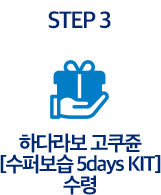
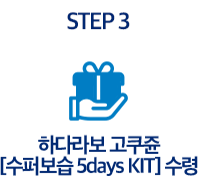
로고, 인풋초기화, 홈링크 수정완료

Changed region(s): [[0.0, 0.2841, 1.0, 1.0], [0.2795, 0.0568, 0.7143, 0.1705]]

diff --git a/m/css/ui.css b/m/css/ui.css
@@ -40,6 +40,33 @@ img {
   min-width: 320px;
   overflow: hidden;
 }
+.wrap .logo-area {
+	position: absolute;
+	top: 0;
+	left: 0;
+	right: 0;
+}
+.wrap .logo-area .logo-wrap {
+/*	margin: 20px auto;*/
+	position: relative;
+	z-index: 10;
+	font-size: 0;
+	text-align: right;
+	padding: 20px 30px;
+}
+.wrap.sub-p .logo-area .logo-wrap {
+	padding: 10px 0;
+	text-align: center;
+}
+.wrap.sub-p .logo-area .logo-wrap a {
+	margin-left: 253px;
+}
+.wrap .logo-area .logo-wrap a {
+	display: inline-block;
+}
+.wrap .logo-area .logo-wrap a img {
+	width: 44px;
+}
 .main-section,
 .event-section {
   min-width: 320px;
@@ -718,6 +745,9 @@ img {
   height: 100px;
   margin: 0 auto;
 }
+.main-section--02 .step li:last-child img {
+	height: 87px;
+}
 .main-section--02 .product {
   margin: 15px auto 28px;
   width: 305px;
@@ -849,6 +879,7 @@ img {
   text-align: center;
 }
 .main-section--04 .form > li {
+	position: relative;
   display: inline-block;
   vertical-align: top;
   width: 152px;
@@ -896,6 +927,22 @@ img {
   height: 32px;
   background: url('../images/search-icon.png') no-repeat 50% 50% #fff;
   background-size: 13px 13px;
+	position: relative;
+	z-index: 2;
+}
+.main-section--04 .form .search-reset {
+	display: block;
+	position: absolute;
+	right: 0;
+	top: 0;
+	width: 40px;
+	height: 32px;
+	background: url('../images/search-reset.png') no-repeat 50% 50% #fff;
+	background-size: 12px 14px;
+	transition: all 0.55s ease;
+}
+.main-section--04 .form .search-reset.visible {
+	top: 32px;
 }
 .main-section--04 .page {
   margin-top: 20px;
@@ -967,6 +1014,10 @@ img {
   display: inline-block;
   vertical-align: top;
   text-align: left;
+}
+.main-section--05 .sns li:first-child img {
+	height: 16px;
+	margin-top: 16px;
 }
 .main-section--05 .sns li + li {
   margin-left: 10px;

diff --git a/css/ui.css b/css/ui.css
@@ -33,6 +33,27 @@ img {
   min-width: 1350px;
   overflow: hidden;
 }
+.wrap .logo-area {
+	position: absolute;
+	top: 0;
+	left: 0;
+	right: 0;
+}
+.wrap.sub-p .logo-area .logo-wrap {
+	width: 830px;
+	margin: 36px auto;
+}
+.wrap .logo-area .logo-wrap {
+	width: 1100px;
+	margin: 45px auto;
+	position: relative;
+	z-index: 10;
+	font-size: 0;
+	text-align: right;
+}
+.wrap .logo-area .logo-wrap a {
+	display: inline-block;
+}
 .main-section,
 .event-section {
   min-width: 1350px;
@@ -697,11 +718,26 @@ img {
   left: -999999px;
 }
 .main-section--04 .form .search-submit {
+	position: relative;
+	z-index: 1;
   display: block;
   float: left;
   width: 55px;
   height: 43px;
   background: url('../images/main-section-04-search.png') no-repeat 50% 50% #fff;
+}
+.main-section--04 .form .search-reset {
+	display: block;
+	position: absolute;
+	right: 0;
+	top: 0;
+	width: 55px;
+	height: 43px;
+	background: url('../images/search-reset.png') no-repeat 50% 50% #fff;
+	transition: all 0.55s ease;
+}
+.main-section--04 .form .search-reset.visible {
+	top: 43px;
 }
 .main-section--04 .page {
   margin-top: 70px;

diff --git a/index.php b/index.php
@@ -20,6 +20,13 @@
 ?>	
 	<body>
 		<div class="wrap">
+			<div class="logo-area">
+				<div class="logo-wrap">
+					<a href="index.php">
+						<img src="./images/HADALABO_logo.png" alt="홈으로">
+					</a>
+				</div>
+			</div>
 			<div class="main-section main-section--01">
 				<div class="js-light-01"></div>
 				<div class="js-light-02"></div>
@@ -313,12 +320,10 @@
 							<button type="button" class="search-submit">
 								<span class="for-a11y">검색</span>
 							</button>
+							<button type="button" class="search-reset">
+								<span class="for-a11y">초기화</span>
+							</button>
 						</li>
-<!--
-						<li>
-							<button type="button" class="search-reset">초기화</button>
-						</li>
--->
 					</ul>
 					<input type="hidden" id="orderby" value="idx">
 					<? echo $BLOCK_LIST ?>
@@ -615,6 +620,20 @@
 				$('#search').val('');
 				listChange('1');
 			});
+			$('.search-input').on('keyup', function(e) {
+				if($(this).val().length>0) {
+					$(this).siblings('.search-reset').addClass('visible');
+				} else {
+					$(this).siblings('.search-reset').removeClass('visible');
+				}
+			});
+			$('.search-input').on('click', function() {
+				if($(this).val().length>0)
+					$('.search-reset').addClass('visible');
+			})
+			$('.search-input').on('blur', function() {
+				$('.search-reset').removeClass('visible');
+			})
 			function listChange(pageNum) {
 				var orderBy = $('#orderby').val();
 				var searchName = $("#search").val();

diff --git a/m/index.php b/m/index.php
@@ -20,6 +20,13 @@
 ?>	
 	<body>
 		<div class="wrap">
+			<div class="logo-area">
+				<div class="logo-wrap">
+					<a href="index.php">
+						<img src="./images/HADALABO_logo.png" alt="홈으로">
+					</a>
+				</div>
+			</div>
 			<section class="main-section main-section--01">
 				<div class="light-01"></div>
 				<div class="light-02"></div>
@@ -300,12 +307,10 @@
 						<button type="button" class="search-submit">
 							<span class="for-a11y">검색</span>
 						</button>
+						<button type="button" class="search-reset">
+							<span class="for-a11y">초기화</span>
+						</button>
 					</li>
-<!--
-					<li>
-						<button type="button" class="search-reset">초기화</button>
-					</li>
--->
 				</ul>
 				<input type="hidden" id="orderby" value="idx">
 				<ul class="page">
@@ -615,6 +620,20 @@
 				$('#search').val('');
 				listChange('1');
 			});
+			$('.search-input').on('keyup', function(e) {
+				if($(this).val().length>0) {
+					$(this).siblings('.search-reset').addClass('visible');
+				} else {
+					$(this).siblings('.search-reset').removeClass('visible');
+				}
+			});
+			$('.search-input').on('click', function() {
+				if($(this).val().length>0)
+					$('.search-reset').addClass('visible');
+			})
+			$('.search-input').on('blur', function() {
+				$('.search-reset').removeClass('visible');
+			})
 			function listChange(pageNum) {
 				var orderBy = $('#orderby').val();
 				var searchName = $("#search").val();

diff --git a/m/event.php b/m/event.php
@@ -2,7 +2,14 @@
 	include_once "head.php";
 ?>
 	<body>
-		<div class="wrap">
+		<div class="wrap sub-p">
+			<div class="logo-area">
+				<div class="logo-wrap">
+					<a href="index.php">
+						<img src="./images/HADALABO_logo.png" alt="홈으로">
+					</a>
+				</div>
+			</div>
 			<section class="event-section event-section--01">
 				<h1 class="title">
 					<img src="images/event-section-01-title.png" alt="하다라보 고쿠쥰 4행시 이벤트 내가 쓰는 수퍼보습" class="content-image">

diff --git a/event.php b/event.php
@@ -2,7 +2,14 @@
 	include_once "head.php";
 ?>
 	<body>
-		<div class="wrap">
+		<div class="wrap sub-p">
+			<div class="logo-area">
+				<div class="logo-wrap">
+					<a href="index.php">
+						<img src="./images/HADALABO_logo.png" alt="홈으로">
+					</a>
+				</div>
+			</div>
 			<div class="event-section event-section--01">
 				<div class="event-section__contents">
 					<h1 class="title">
